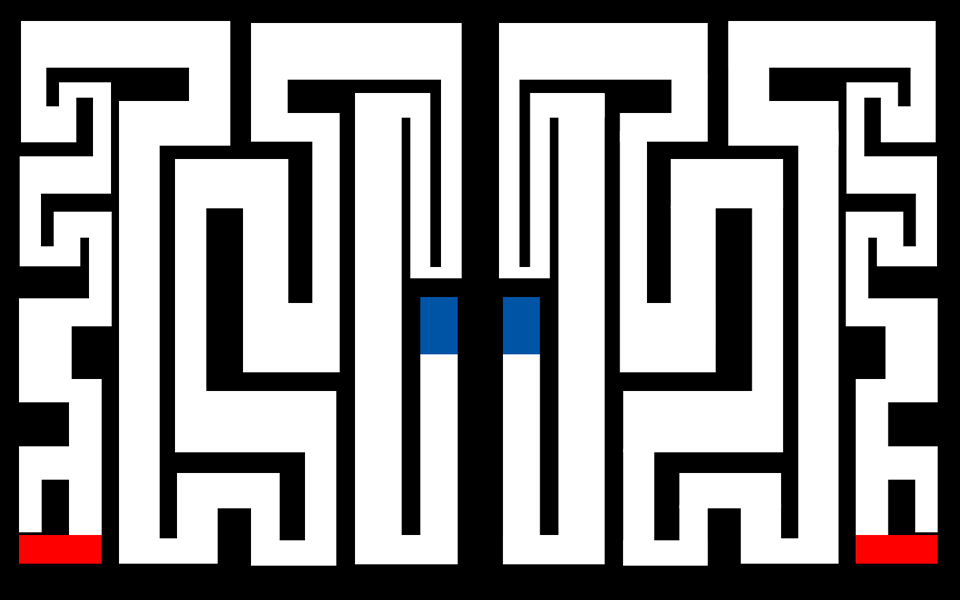
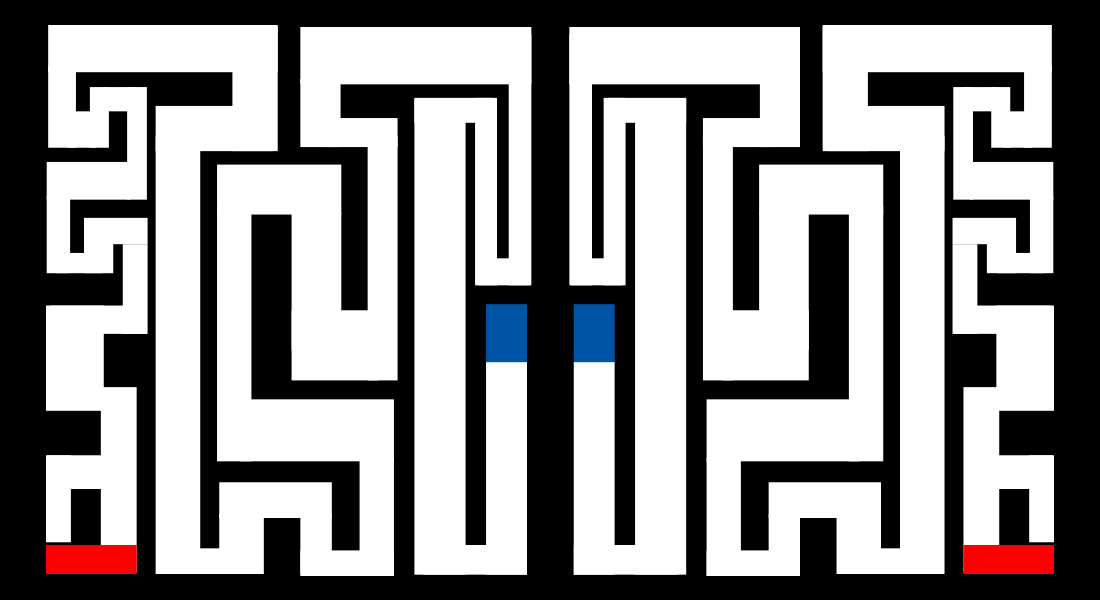
level2 and level3 pics rescaled

diff --git a/canvas.html b/canvas.html
@@ -4,7 +4,7 @@
   </style>
   
   <div style="text-align:center">
-    <canvas id="c" width="1250" height="650">
+    <canvas id="c" width="1150" height="600">
     </canvas>
   </div>
   

diff --git a/canvas.js b/canvas.js
@@ -1,6 +1,6 @@
 var c = document.getElementById("c");
 var ctx = c.getContext("2d");
-var lev = 1;
+var lev = 0;
 var maxlev = 3;
 
 var update = function(){
